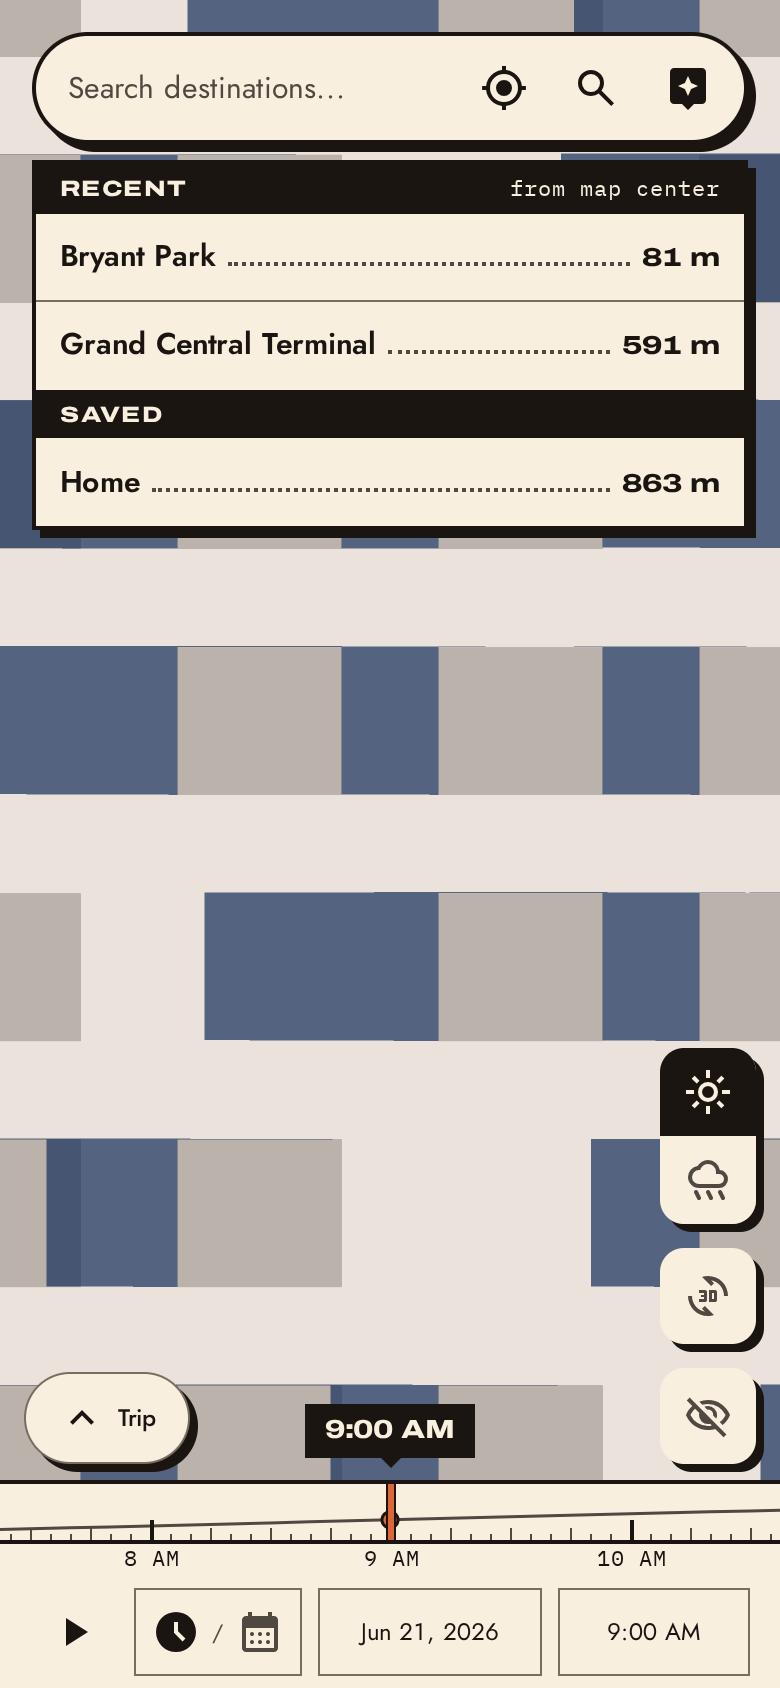
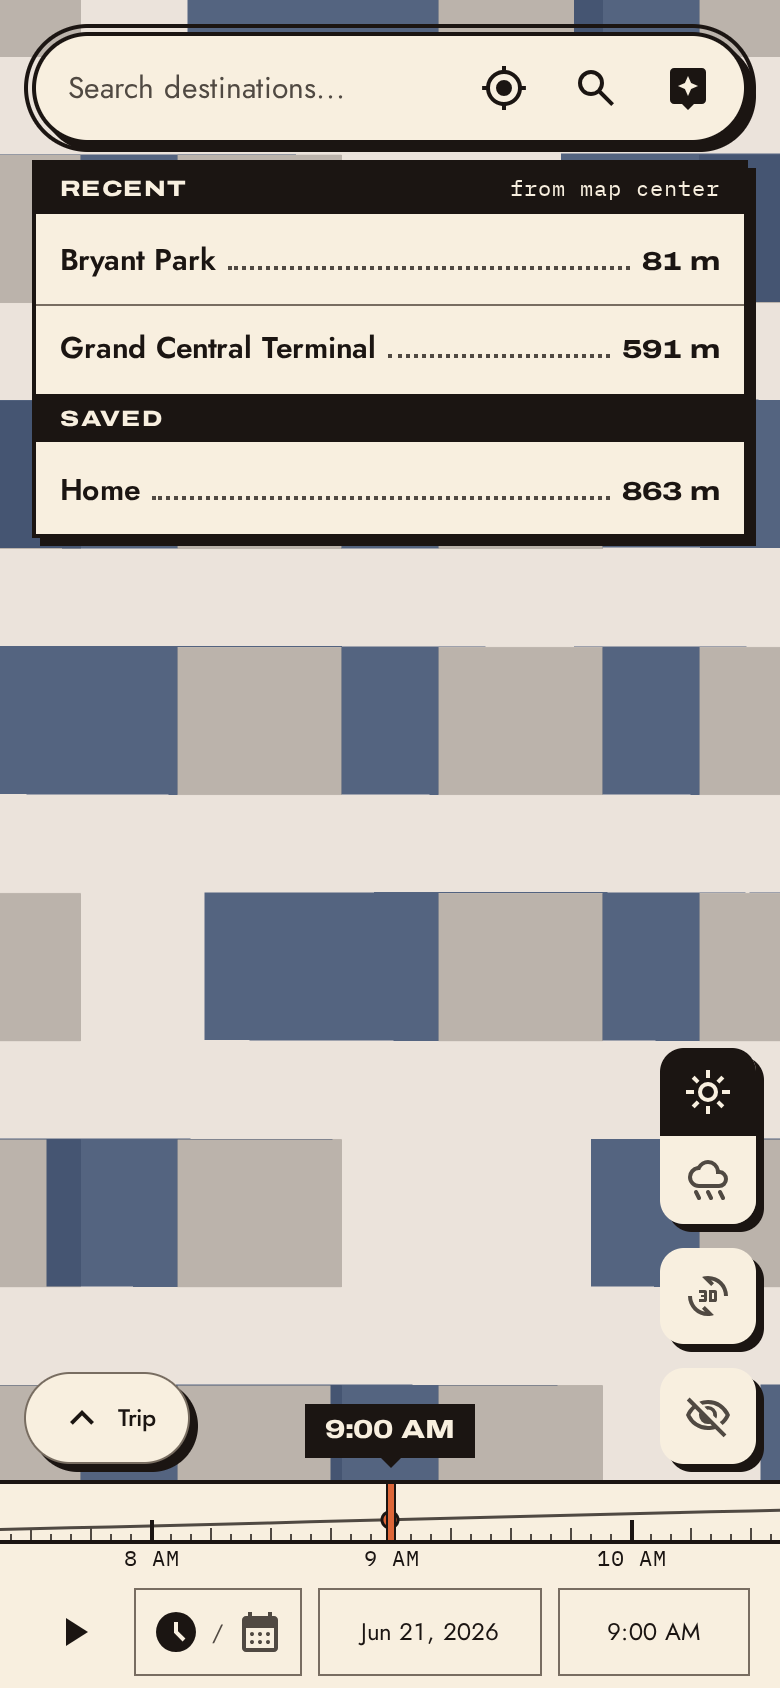
fix(design): ring the focused search pill, square its targets, part the band from a highlighted row

diff --git a/app/components/SearchBar.tsx b/app/components/SearchBar.tsx
@@ -426,10 +426,10 @@ export default function SearchBar({ onSelect, mapCenter, onClearPanel, onMenuTog
 
   return (
     <div ref={containerRef} className="relative">
-      {/* The one search pill: solid panel, 2px ink rule, hard offset shadow; every
-          control in it is a 44px square target. */}
+      {/* The one search pill: solid panel, 2px ink rule, hard offset shadow, ringed
+          while the field has focus; every control in it is a 44px square target. */}
       <div
-        className="w-full flex items-center rounded-full h-14 px-1.5 gap-0.5 border-2"
+        className="w-full flex items-center rounded-full h-14 px-1.5 gap-0.5 border-2 has-[input:focus]:outline-2 has-[input:focus]:outline-offset-2 has-[input:focus]:outline-ink"
         style={{ background: "var(--color-panel)", borderColor: "var(--color-ink)", boxShadow: "var(--shadow-hard-2)" }}
       >
         {/* Hamburger — toggles desktop sidebar */}
@@ -632,7 +632,7 @@ export default function SearchBar({ onSelect, mapCenter, onClearPanel, onMenuTog
 }
 
 const PILL_BUTTON =
-  "grid size-11 shrink-0 place-items-center rounded-full text-ink hover:bg-ground focus-visible:outline-2 focus-visible:-outline-offset-2 focus-visible:outline-current";
+  "grid size-11 shrink-0 place-items-center text-ink hover:opacity-80 focus-visible:outline-2 focus-visible:-outline-offset-2 focus-visible:outline-current";
 
 // Square and ruled like the departures board: a directory, not a floating card.
 const DIRECTORY_PANEL = "absolute top-full mt-2 w-full overflow-hidden border-2 z-20";
@@ -648,7 +648,13 @@ function DirectoryHead({ id, title, note }: { id?: string; title: string; note?:
     <div
       id={id}
       className="flex items-baseline justify-between gap-2 px-3 py-1"
-      style={{ background: "var(--color-ink)", color: "var(--color-on-ink)", fontSize: "var(--text-caption)" }}
+      // The panel-coloured foot keeps a highlighted (ink) first row from merging into the band.
+      style={{
+        background: "var(--color-ink)",
+        color: "var(--color-on-ink)",
+        fontSize: "var(--text-caption)",
+        borderBottom: "2px solid var(--color-panel)",
+      }}
     >
       <span className="font-extrabold uppercase tracking-wider" style={{ fontFamily: "var(--font-label)" }}>
         {title}
